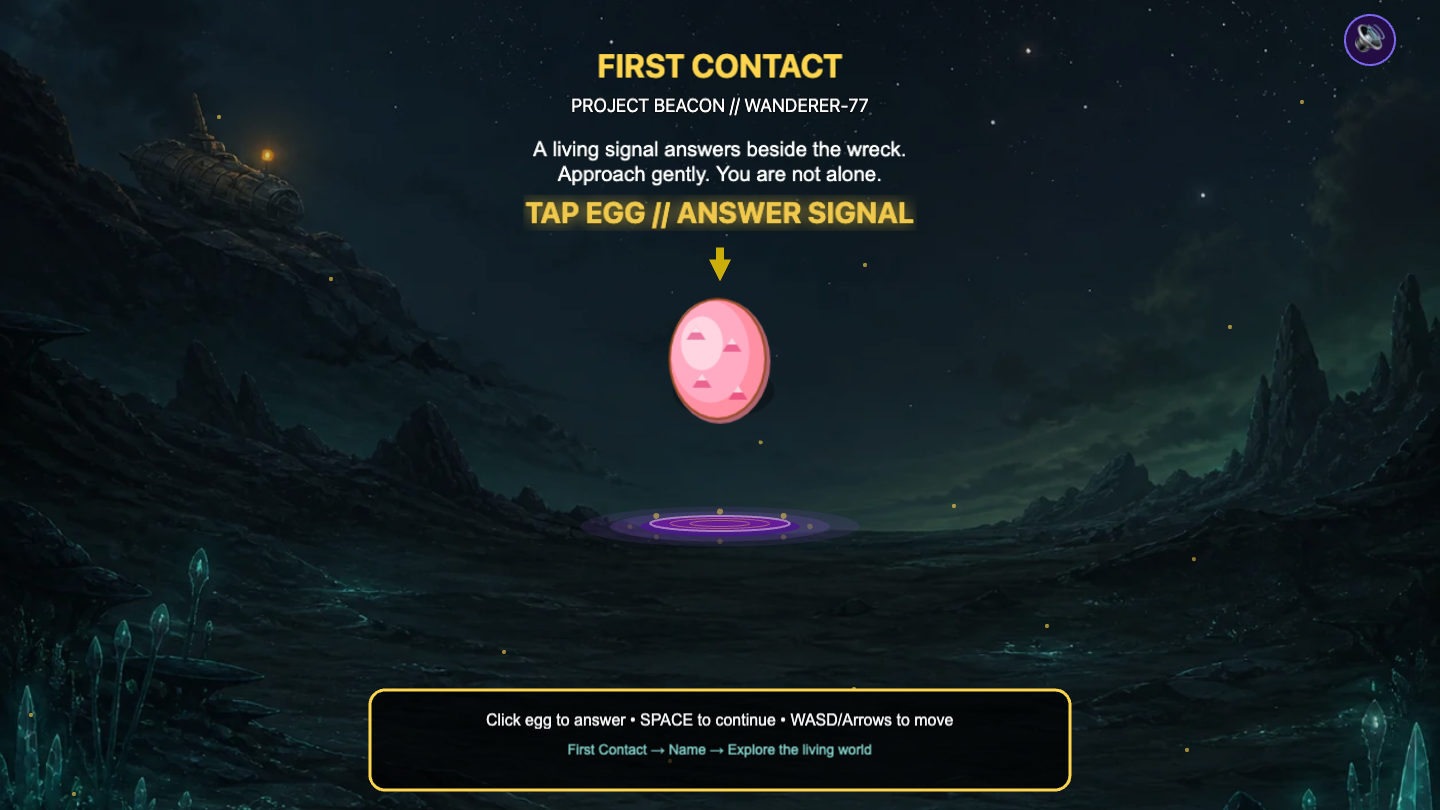
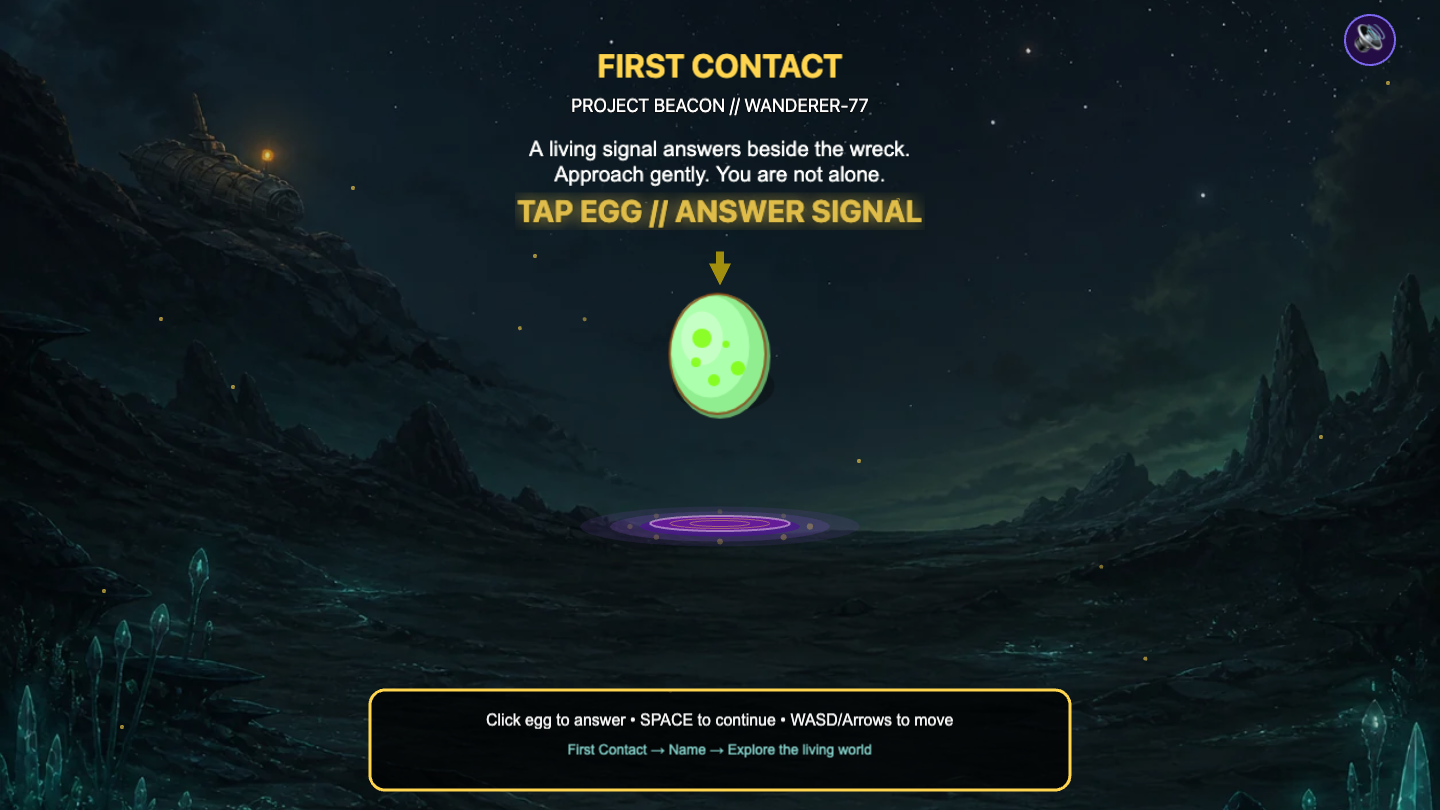
Add an honest quality gate for the creature reveal

Changed region(s): [[0.3438, 0.1543, 0.6562, 0.2778], [0.4375, 0.3086, 0.5625, 0.5247]]

diff --git a/scripts/smoke-secondary-journeys.js b/scripts/smoke-secondary-journeys.js
@@ -1057,10 +1057,49 @@ async function smokePurchasedEgg(session, exceptions) {
         throw new Error(`Purchased egg was not reserved exactly once: ${JSON.stringify(state)}`);
     }
     await captureGameplayStill(session, 'creature-cosmic-egg-hatch.png');
+
+    const eggTarget = await evaluate(session, `(() => {
+        const scene = window.mythicalGame.scene.getScene('HatchingScene');
+        const bounds = scene?.egg?.getBounds?.();
+        if (!bounds || !scene.egg?.input?.enabled) return null;
+        return {
+            x: Math.round(bounds.centerX),
+            y: Math.round(bounds.centerY)
+        };
+    })()`);
+    if (!eggTarget) throw new Error('Purchased egg was not interactive before the reveal');
+    await touch(session, eggTarget.x, eggTarget.y);
+
+    const reveal = await waitFor(
+        () => evaluate(session, `(() => {
+            const scene = window.mythicalGame.scene.getScene('HatchingScene');
+            if (
+                !scene?.creatureAppeared ||
+                !scene?.creature?.active ||
+                scene.creature.alpha < 0.95 ||
+                !scene?.keepUI?.keepZone?.active
+            ) return null;
+            return {
+                creatureAppeared: true,
+                creatureActive: true,
+                creatureAlpha: scene.creature.alpha,
+                confirmContactReady: true,
+                hatchingStarted: scene.hatchingStarted,
+                isHatching: scene.isHatching,
+                hasGenetics: Boolean(scene.creatureGenetics?.id)
+            };
+        })()`),
+        { timeoutMs: 30000, message: 'Purchased egg reveal and confirm-contact control' }
+    );
+    if (!reveal.hasGenetics || reveal.isHatching) {
+        throw new Error(`Purchased egg reveal was incomplete: ${JSON.stringify(reveal)}`);
+    }
+    await delay(500);
+    await captureGameplayStill(session, 'creature-cosmic-egg-reveal.png');
     if (exceptions.length) {
         throw new Error(`Purchased egg flow raised browser exceptions: ${exceptions.join(' | ')}`);
     }
-    return state;
+    return { ...state, eggTarget, reveal };
 }
 
 async function smokeHomeStart(session, exceptions) {

diff --git a/src/__tests__/StorefrontStoryContract.test.js b/src/__tests__/StorefrontStoryContract.test.js
@@ -24,6 +24,7 @@ const pressFactSheet = fs.readFileSync(
 );
 const pressAssets = require('../../public/press/mythical-void-press-assets.json');
 const gameplayManifest = require('../../public/press/gameplay/manifest.json');
+const hatchRevealReview = require('../../docs/company/content/HATCH_REVEAL_PROOF_REVIEW.json');
 const gameplayVideoManifest = require('../../public/press/gameplay-video/manifest.json');
 const launchTrailerManifest = require('../../public/press/trailer/manifest.json');
 const trailerPage = fs.readFileSync(
@@ -218,7 +219,7 @@ describe('storefront Project Beacon story contract', () => {
         expect(pressAssets.assets[0].kind).toBe(
             'edited_first_party_launch_trailer_with_authentic_gameplay'
         );
-        expect(gameplayManifest.captures).toHaveLength(12);
+        expect(gameplayManifest.captures).toHaveLength(13);
         expect(gameplayManifest.sourceCommit).toMatch(/^[0-9a-f]{40}$/);
         expect(gameplayManifest.captureSourcePolicy).toContain(
             'Each capture has its own sourceCommit'
@@ -228,6 +229,16 @@ describe('storefront Project Beacon story contract', () => {
         });
         expect(gameplayManifest.approvalState).toBe(
             'internal_review_required_before_public_promotion'
+        );
+        expect(gameplayManifest.captures.find(capture => capture.id === 'GP-013')).toEqual(
+            expect.objectContaining({
+                filename: 'creature-cosmic-egg-reveal.png',
+                classification: 'authentic_running_build_screenshot'
+            })
+        );
+        expect(hatchRevealReview.publicUseApproved).toBe(false);
+        expect(hatchRevealReview.reviewState).toBe(
+            'authentic_internal_proof_rejected_for_public_promotion'
         );
         expect(pressAssets.restrictions).toContain(
             'Only assets labelled authentic_running_build_screenshot may be described as gameplay screenshots.'

diff --git a/src/__tests__/StorefrontIntegration.test.js b/src/__tests__/StorefrontIntegration.test.js
@@ -57,7 +57,10 @@ describe('storefront and game deployment integration', () => {
                 destination: '/index.html'
             })
         ]));
-        const rewriteSource = vercel.rewrites[0].source;
+        const rewriteSource = vercel.rewrites.find(rewrite => (
+            rewrite.destination === '/index.html'
+        ))?.source;
+        expect(rewriteSource).toBeDefined();
         [
             'assets/',
             'marketing/',

diff --git a/docs/company/FOUNDER_LAUNCH_DASHBOARD.md b/docs/company/FOUNDER_LAUNCH_DASHBOARD.md
@@ -21,6 +21,7 @@ This is a dated production snapshot. It does not claim continuous uptime, search
 - **The trailer:** the film and dedicated watch page are prepared. The page remains unpublished and hidden from search until Kevin approves the film, wording, and poster together.
 - **Safer measurement:** the current Google tag is live, while the tighter 10-route, 5-action consent upgrade is prepared on this feature branch. Its numbers are not trusted for company decisions yet.
 - **Social launch:** 6 YouTube upload items and 5 LinkedIn posts are prepared, alongside a four-week plan containing 7 outward releases and one internal review.
+- **Honest game proof:** the real hatch reached a visible creature and Confirm contact, but the captured frame was rejected for public promotion after 4 visible quality problems were recorded for Game Development.
 - **First outreach:** 3 personal messages are written for Imirt, Alpha Beta Gamer, and Phaser. Nothing has been sent. 7 later opportunities are ranked.
 - **Browser-game distribution:** the itch.io package, cover, page wording, screenshots, and private-test checklist are prepared. Nothing has been uploaded or published.
 
@@ -34,7 +35,8 @@ Email and itch.io remain useful later, but they no longer sit ahead of the trail
 
 ## Work the studio can continue without Kevin
 
-- Capture the three deeper real-game proof sequences: hatch to first response, a realm before and after restoration, and a spoiler-safe Project Beacon choice.
+- Improve and recapture the real creature reveal, then complete the hatch-to-first-response proof without pretending the current frame is launch quality.
+- Capture a realm before and after restoration and a spoiler-safe Project Beacon choice.
 - Research suitable adult creators, press, browser-game platforms, educators, and STEM opportunities.
 - Prepare one truthful release at a time and keep the four-week calendar aligned with what is actually playable.
 - Check every claim against the game and label generated artwork separately from gameplay.

diff --git a/docs/company/content/GAMEPLAY_CAPTURE_AND_RELEASE.md b/docs/company/content/GAMEPLAY_CAPTURE_AND_RELEASE.md
@@ -2,7 +2,7 @@
 
 Mythical Void now has a repeatable way to create honest screenshots from the real running game.
 
-The camera follows the same tested journeys used to check the game: the Project Beacon opening, the live egg, a cosmic hatch, all six realms, the village builder, and a credited NASA learning moment. It uses invented test data and records the exact build behind every image.
+The camera follows the same tested journeys used to check the game: the Project Beacon opening, the live egg, a cosmic hatch, the real creature reveal and Confirm contact state, all six realms, the village builder, and a credited NASA learning moment. It uses invented test data and records the exact build behind every image.
 
 ## Why this matters
 
@@ -54,6 +54,12 @@ The recording contains no voice, player name, account, message or personal save.
 6. For video, inspect the beginning, middle and end rather than approving it from the poster image alone.
 
 The capture system prepares verified proof assets. A trailer still needs a deliberate edit, a checked soundtrack and a final audience decision before upload; the first such edit is now reproducible below.
+
+## The hatch reveal has its own quality gate
+
+The camera now proves that the running build can move from a purchased cosmic egg to a visible creature and a working Confirm contact decision. That does not make the resulting frame good marketing automatically.
+
+The current review is recorded in `docs/company/content/HATCH_REVEAL_PROOF_REVIEW.json`. GP-013 is authentic internal evidence, but it is withheld from public promotion because the creature is too small, text collides, an egg instruction remains after the egg disappears, and the lower interface has no clear reading order. Game Development should improve the reveal composition and then the company camera should capture and review it again.
 
 ## Build the launch trailer
 
